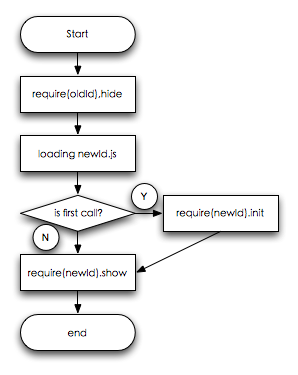
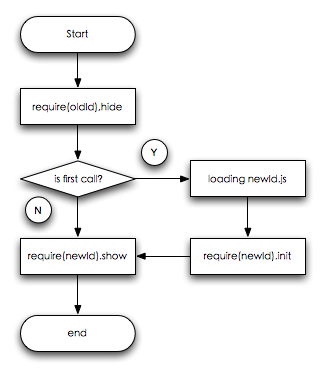
add events emit picture

diff --git a/README.md b/README.md
@@ -5,6 +5,14 @@
 
 ![hashchange flow chart](hashchange-flowchart.png)
 
+This picture is show how seajs-hashchange work.
+
+## Events Chart
+
+![hashchange events](hashchange-events.png)
+
+This picture is show the time that events emit.
+
 ## Usage
 
 ```js
@@ -51,7 +59,7 @@ seajs.use('path/to/seajs-hashchange.js', function(HashChange) {
 ## implement
 
 some method will after every hashchange.
-some api must be implement from running js. There are: init, show, hide.
+some api should be implement from running js. There are: init, show, hide.
 
 ### init(newParams, oldParams)
 
